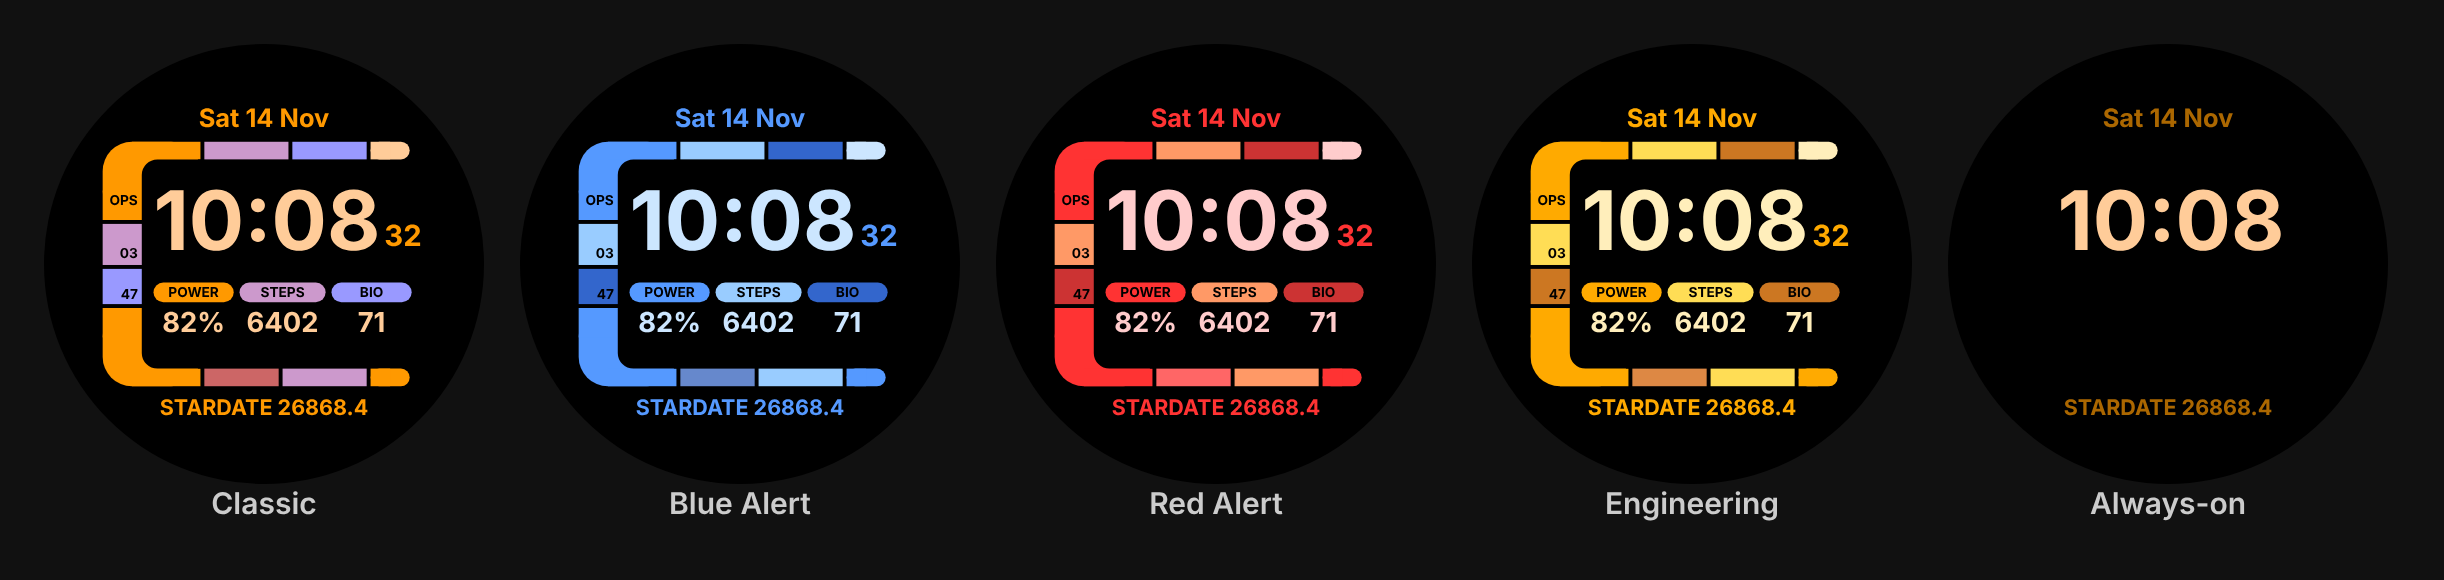
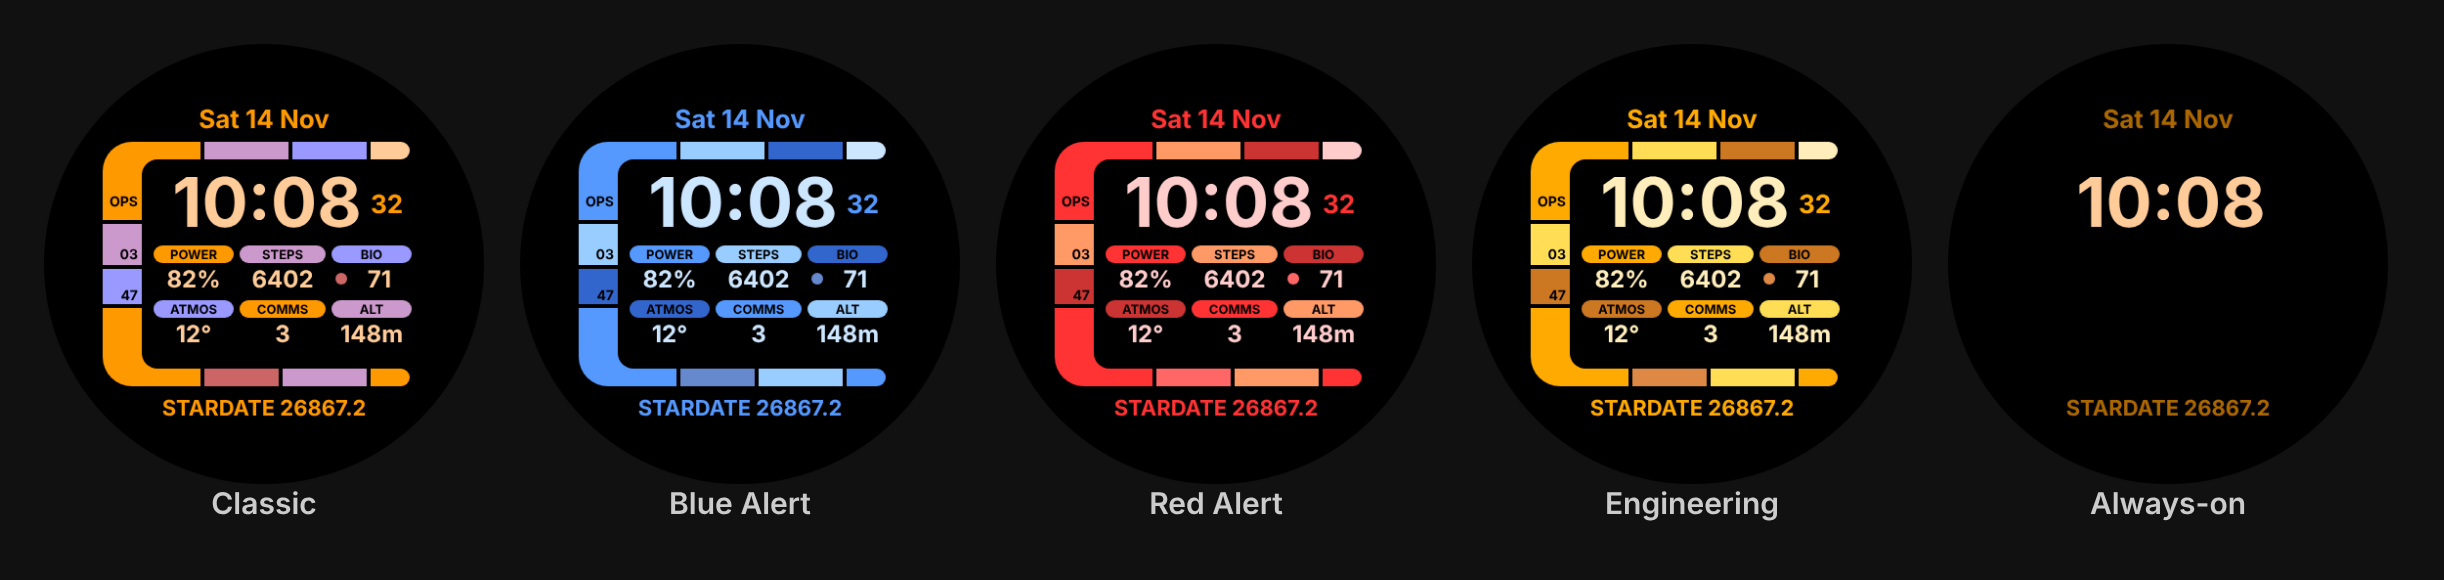
Stardate Ops: add weather/comms/altimeter complication slots and heartbeat pulse
Second readout row with three customisable complication slots (ATMOS,
COMMS, ALT) and a dot beside BIO that flashes at the measured heart rate.
Time shrunk to make room. Preview renderer handles complications and
ellipses. versionCode 3.

Claude-Session: https://claude.ai/code/session_01CsZzKTsw59dv76os2RKtjY

diff --git a/projects/watchfaces/stardate-ops/tools/render_preview.py b/projects/watchfaces/stardate-ops/tools/render_preview.py
@@ -20,6 +20,8 @@ SAMPLE = {
     "BATTERY_PERCENT": "82", "STEP_COUNT": "6402", "HEART_RATE": "71",
     "HOUR_1_12": "10", "HOUR_0_23_Z": "10", "MINUTE_Z": "08", "SECOND_Z": "32",
 }
+# Sample complication text per slotId (weather, unread count, altitude).
+COMPLICATION_SAMPLE = {"0": "12°", "1": "3", "2": "148m"}
 TIME = {"hh:mm": "10:08", "ss": "32"}
 FONT = "'Antonio','Inter','Liberation Sans',sans-serif"
 
@@ -46,7 +48,7 @@ def main():
         return argb(colors[int(m.group(1))] if m else v)
 
     def evaluate(expr):
-        e = re.sub(r"\[(\w+)\]", lambda m: str(SAMPLE[m.group(1)]), expr)
+        e = re.sub(r"\[([\w.]+)\]", lambda m: str(SAMPLE[m.group(1)]), expr)
         if re.search(r"[+\-*/]|floor", e):
             v = eval(e, {"floor": math.floor})  # WFF maths is floating point
             return f"{v:.3f}".rstrip("0").rstrip(".")  # watch prints <= 3 decimals
@@ -75,30 +77,41 @@ def main():
             f'font-weight="{weight}" fill="{fill}" fill-opacity="{a * opacity:.2f}" '
             f'text-anchor="{anchor}" dominant-baseline="central">{escape(s)}</text>')
 
-    def walk(node):
+    def walk(node, ox=0.0, oy=0.0):
         for el in node:
             tag = el.tag
             if tag == "Group":
                 if not hidden(el):
-                    walk(el)
+                    walk(el, ox, oy)
             elif tag == "ListConfiguration":
                 for opt in el:
                     if opt.get("id") == "0":
-                        walk(opt)
+                        walk(opt, ox, oy)
             elif tag == "BooleanConfiguration":
                 for opt in el:
                     if opt.get("id") == "TRUE":
-                        walk(opt)
+                        walk(opt, ox, oy)
+            elif tag == "ComplicationSlot":
+                SAMPLE["COMPLICATION.TEXT"] = COMPLICATION_SAMPLE.get(el.get("slotId"), "--")
+                for comp in el.findall("Complication"):
+                    if comp.get("type") == "SHORT_TEXT":
+                        walk(comp, ox + float(el.get("x")), oy + float(el.get("y")))
             elif tag == "PartDraw":
                 if hidden(el):
                     continue
                 for shape in el:
+                    if shape.find("Fill") is None:
+                        continue  # Transform / Variant
                     fill, a = color(shape.find("Fill").get("color"))
-                    g = {k: shape.get(k) for k in ("x", "y", "width", "height")}
-                    r = shape.get("cornerRadiusX", "0")
-                    parts.append(
-                        f'<rect x="{g["x"]}" y="{g["y"]}" width="{g["width"]}" height="{g["height"]}" '
-                        f'rx="{r}" fill="{fill}" fill-opacity="{a}"/>')
+                    x, y, w, h = (float(shape.get(k)) for k in ("x", "y", "width", "height"))
+                    x, y = x + ox, y + oy
+                    if shape.tag == "Ellipse":
+                        parts.append(f'<ellipse cx="{x + w / 2}" cy="{y + h / 2}" rx="{w / 2}" ry="{h / 2}" '
+                                     f'fill="{fill}" fill-opacity="{a}"/>')
+                    else:
+                        r = shape.get("cornerRadiusX", "0")
+                        parts.append(f'<rect x="{x}" y="{y}" width="{w}" height="{h}" '
+                                     f'rx="{r}" fill="{fill}" fill-opacity="{a}"/>')
             elif tag == "PartText":
                 if hidden(el):
                     continue
@@ -109,14 +122,8 @@ def main():
                 for p in tpl.findall("Parameter"):
                     s = s.replace("%s", evaluate(p.get("expression")), 1)
                 s = s.replace("\0", "%")
-                text(*(float(el.get(k)) for k in ("x", "y", "width", "height")),
-                     t.get("align", "START"), font, s, dim(el))
-            elif tag == "DigitalClock":
-                if hidden(el):
-                    continue
-                tt = el.find("TimeText")
-                text(*(float(el.get(k)) for k in ("x", "y", "width", "height")),
-                     tt.get("align", "START"), tt.find("Font"), TIME[tt.get("format")], dim(el))
+                x, y, w, h = (float(el.get(k)) for k in ("x", "y", "width", "height"))
+                text(x + ox, y + oy, w, h, t.get("align", "START"), font, s, dim(el))
 
     walk(root.find("Scene"))
     bg = root.find("Scene").get("backgroundColor")

diff --git a/projects/watchfaces/stardate-ops/README.md b/projects/watchfaces/stardate-ops/README.md
@@ -10,15 +10,30 @@ No app code, so there's no battery drain from background services.
 
 | Element | Details |
 |---|---|
-| Time | Big digital time, follows your phone's 12/24h setting |
+| Time | Big digital time; 12h or 24h via **Customise → Clock format** |
 | Seconds | Can be switched off in the watch face editor |
 | Date | Day, date, month along the top |
-| Readouts | **POWER** (battery %), **STEPS**, **BIO** (heart rate) |
+| Readouts | **POWER** (battery %), **STEPS**, **BIO** (heart rate, with a dot that flashes once per heartbeat) |
+| Complications | **ATMOS**, **COMMS**, **ALT**: three slots you fill from other apps (see below). Tap one to open its app |
 | Stardate | A fan-style stardate: `(year − 2000) × 1000 + fraction of year`, plus a tenths digit that ticks through the day |
 | Themes | Classic, Blue Alert, Red Alert, Engineering |
 | Always-on | Frame and readouts switch off; only time, date and stardate stay lit (saves battery, avoids burn-in) |
 
-Customise it: long-press the watch face → **Customise** → pick a theme / toggle seconds.
+Customise it: long-press the watch face → **Customise** → pick a theme / toggle seconds / clock format.
+
+### Setting up the ATMOS / COMMS / ALT slots
+
+Long-press the face → **Customise** → swipe to **Complications**, tap a slot and pick a source:
+
+| Slot | Suggested source | Default until you change it |
+|---|---|---|
+| ATMOS | **Weather** (Samsung Weather) shows the current temperature | Sunrise/sunset |
+| COMMS | Your email app's complication if it has one (e.g. Samsung Email, Outlook), otherwise **Notifications** | Unread notification count |
+| ALT | An altimeter/barometer app that provides a complication | Next calendar event |
+
+Wear OS watch faces can't read the altitude sensor directly. The ALT slot only shows altitude
+if an app on your watch provides an altitude complication. The labels are fixed, so you can put anything
+in any slot.
 
 ## Get the APK
 
